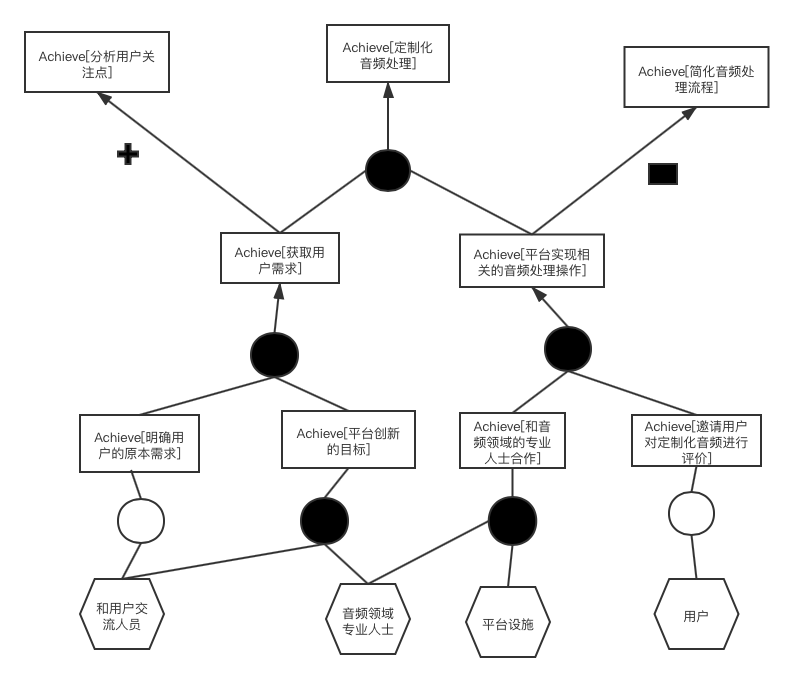
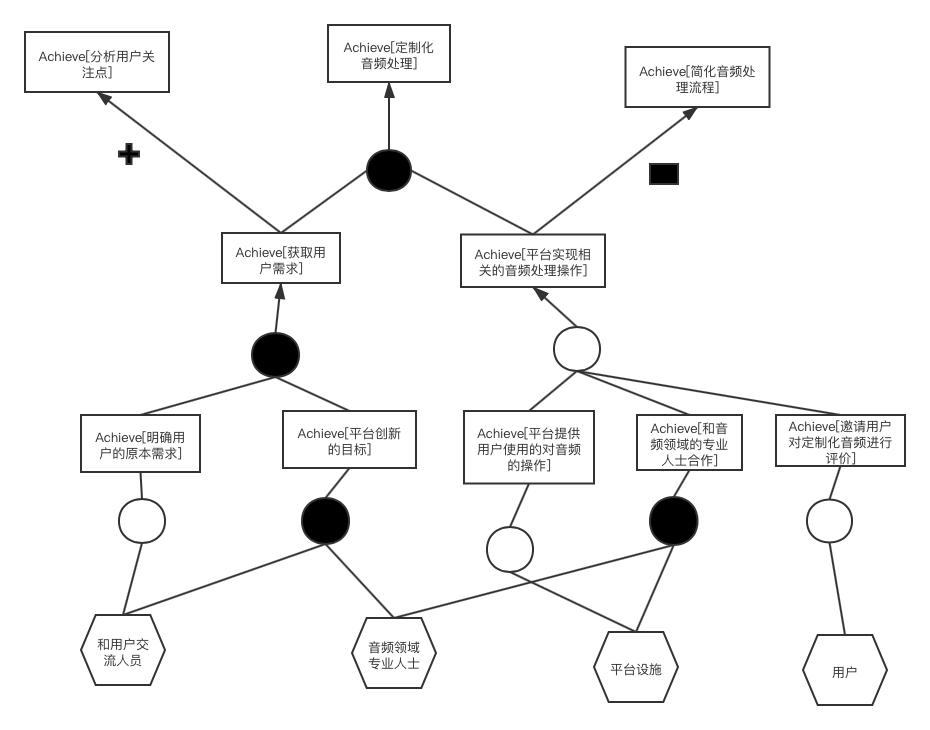
完善

diff --git a/需求获取/需求获取结果文档.md b/需求获取/需求获取结果文档.md
@@ -68,6 +68,7 @@
 + 定制化音频处理
 + 音频推荐
 + 提供客制化音频服务
++ Battle奖金赛
 
 以下分别讨论
 
@@ -81,7 +82,7 @@
 
 在进行用户需求获取的时候我们首先应该得知他已经十分确定的目标，这作为一个方面，同时，我们也应该从整个音频处理的结果来看，向其提供一些我们平台可以创新的目标作为用户需求的补充。
 
-在平台实现这些操作的过程中，我们可以与某些音乐领域的专业人士合作，提供有用的建议的方法，以实现或添加创新的目标。同时我们会邀请一些用户来对定制化后的音频进行评价。
+在平台实现这些操作的过程中，我们可以与某些音乐领域的专业人士合作，提供有用的建议的方法，以实现或添加创新的目标。同时我们会邀请一些用户来对定制化后的音频进行评价。初次之外，还可以选择用户自己定制自己想要的音频的服务，由用户通过我们平台上的操作，自己对音频进行一系列的编辑操作。
 
 
 
@@ -101,13 +102,13 @@
 
 #### 3.1.3 目标实现
 
-将底层目标分配给主体，结果如下图所示。负责和用户交流的人员和用户一起获取最基本的目标，然后再和音频领域的专业人士合作提出创新性的目标。定制化音频处理过程由音频领域的专业人士使用平台设施完成。完成过由一些用户进行评价。
+将底层目标分配给主体，结果如下图所示。负责和用户交流的人员和用户一起获取最基本的目标，然后再和音频领域的专业人士合作提出创新性的目标。定制化音频处理过程由音频领域的专业人士使用平台设施完成。完成后由一些用户进行评价。或者用户使用平台设施自己进行操作。
 
-![](/Users/liuruiqi/Documents/document/大三/软件需求与商业模式创新/作业/xuqiu/需求获取/pic/模型构建/9.png)
+![](./pic/模型构建/9.png)
 
 将底层目标分配给不同操作，结果如下图所示。
 
-![](/Users/liuruiqi/Documents/document/大三/软件需求与商业模式创新/作业/xuqiu/需求获取/pic/模型构建/10.png)
+![](./pic/模型构建/10.png)
 
 
 
@@ -186,6 +187,50 @@
 将底层目标分配给不同操作，结果如下图所示。
 
 ![](./pic/模型构建/15.png)
+
+
+
+### 3.4 Battle奖金赛
+
+#### 3.4.1 目标精化
+
+想要实现Battle奖金赛这一高层目标，可以分为以下三个目标。首先平台应该通过多方渠道发布信息，宣传Battle奖金赛，这样才能获得足够的参赛人员和观看人员。其次应该搭建好参赛的环境，选择好合作的对象。最后，应该有多种多样的评分标准，给奖金赛一个完美的结果。
+
+![](./pic/模型构建/16.png)
+
+进一步：
+
+我们主要通过平台的广告来宣传奖金赛的信息，同时让这个消息在用户之间发酵，从而征集更多的有意愿的参赛人员。
+
+为了搭建参赛的环境，我们会和各种合作商合作，可能包括广告、场地、设备等合作商。
+
+对于最后的评分，为了公平性，我们会邀请各种的音频大咖来参与，这是评分的一个重要来源，同时，也会选择部分用户来参加评分，增加大众的成本在评分里。
+
+![](./pic/模型构建/17.png)
+
+
+
+#### 3.4.2 目标冲突与协作
+
+在对整体目标进行分析的同时，我们还发现了其他目标。音频推荐这一主要业务是我们在前期以低成本获得高流量和占据市场的主打产品，但是奖金赛在环境搭建的时候，需要和各种各样的合作商合作，这需要大量的资金，和上述的目标产生了冲突。所以，我们选择在后期开展奖金赛这一目标，把它当作进一步产品推广和业务创造的途径。
+
+![](./pic/模型构建/18.png)
+
+
+
+#### 3.4.3 目标实现
+
+将底层目标分配给主体，结果如下图所示。平台系统推出广告，同时利用平台社区让消息在用户之间传递，并且筛选出最后可以参加评分的用户。总经理主要负责和各种合作商的合作业务。业务对接人员负责和音频大咖联系，并邀请其参加最后的评分。
+
+![](./pic/模型构建/19.png)
+
+
+
+将底层目标分配给不同操作，结果如下图所示。
+
+![](./pic/模型构建/20.png)
+
+
 
 
 
